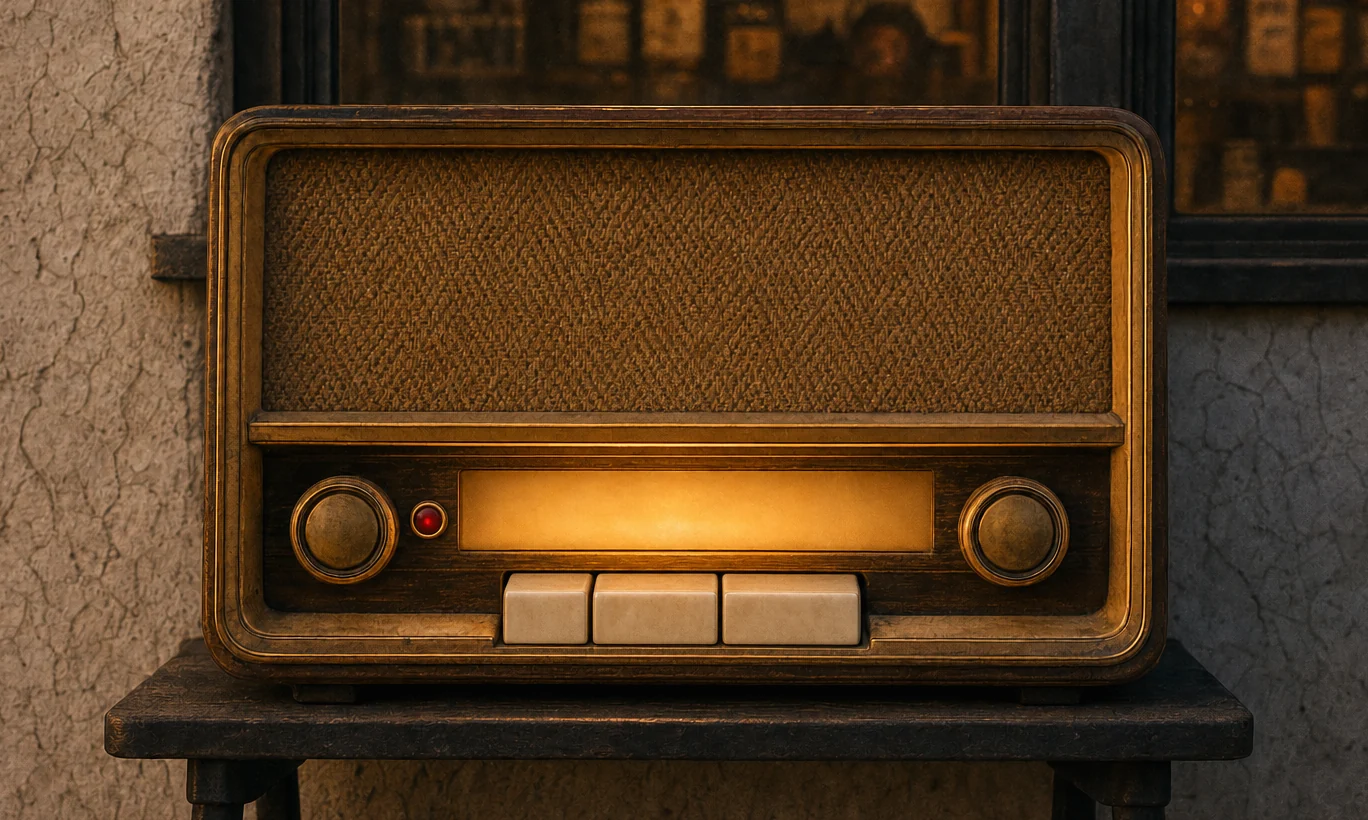
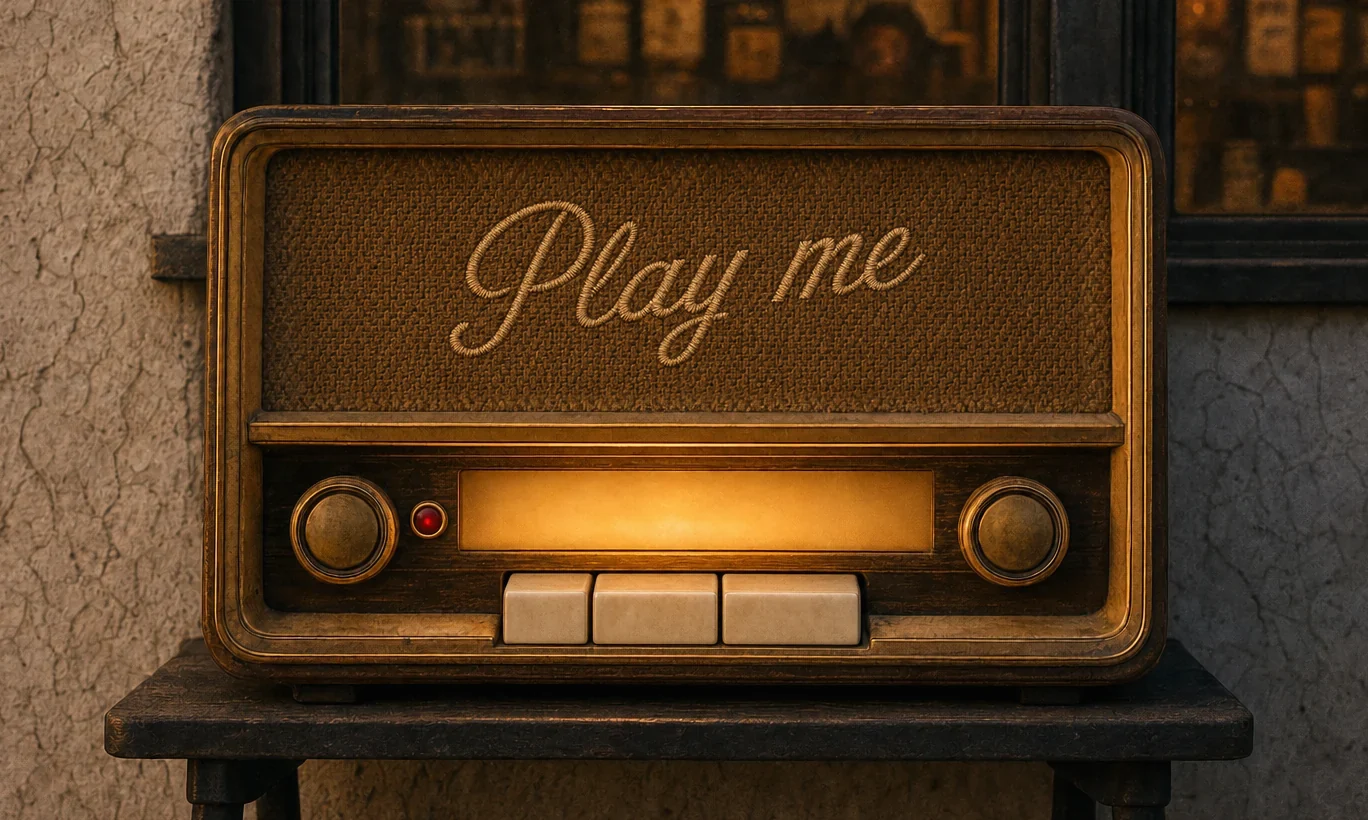
GAS 2 radio: "Play me" embroidered INTO the radio photo (Dan 2026-10-26)
The SVG stitches "look like CSS": the nameplate is now part of the plate asset.
One masked gpt-image-2 edit of the grille cloth (player/tools/gen_stitch.py, take 1
of 3: fine thin satin script), composed onto both plates through a diff mask, so
the cabinet, keys, knobs, dial and every radio.css coordinate stay pixel-identical.
.rp-badge = an invisible hit area over the stitched words (play / stop); the SVG
badge, its sheen and the ?stitch picker are gone.

Changed region(s): [[0.2149, 0.2134, 0.7982, 0.4878]]

diff --git a/tools/_gas2-scene/player/radio.js b/tools/_gas2-scene/player/radio.js
@@ -45,28 +45,10 @@
   const q = s => dock.querySelector(s), qa = s => [...dock.querySelectorAll(s)];
   const plate = q('.rp-plate'), ptr = q('.rp-ptr');
 
-  // the nameplate on the grille (Dan 2026-10-24: "like a brand name, like a Marshall ... pops out ... sewn in ... let me see
-  // more of the stitches"): "Play me" EMBROIDERED into the cloth, a second play key. One SVG, 1 user unit = 1u (plate px),
-  // the words' centre (320, 120) on the plate's (687, 270). Layers, bottom up: [the running stitch around the letters, a dashed
-  // stroke whose inner half the letters cover], the dark thread edge, the cream satin stitches (a pattern of threads at
-  // -20deg, each a groove + a sheen), a lit-top shade, and a sheen that sweeps the thread every 7 s until the first play
-  // (radio.css hides it on .played / reduced motion). STITCH = the outline thread; ?stitch shows Dan's picker
-  const STITCH = { none: null, cream: '#efe2c2', gold: '#e8c878' };
-  const badgeSvg = out => { const t = a => `<text x="320" y="165"${a}>Play me</text>`;
-    return `<svg viewBox="0 0 640 240" aria-hidden="true"><defs>
-      <pattern id="rpSat" width="40" height="8" patternUnits="userSpaceOnUse" patternTransform="rotate(-20)"><rect width="40" height="8" fill="#efe2c2"/>
-        <rect width="40" height="1.6" fill="rgba(96,64,28,.6)"/><rect y="3.6" width="40" height="2.4" fill="rgba(255,253,246,.75)"/></pattern>
-      <linearGradient id="rpShade" x1="0" y1="0" x2="0" y2="1"><stop offset="0" stop-color="#fff8e8" stop-opacity=".35"/>
-        <stop offset=".6" stop-color="#fff8e8" stop-opacity="0"/><stop offset="1" stop-color="#5a3c18" stop-opacity=".35"/></linearGradient>
-      <linearGradient id="rpSheen" gradientUnits="userSpaceOnUse" x1="0" y1="0" x2="640" y2="0" gradientTransform="translate(-700 0)">
-        <stop offset=".42" stop-color="#fff8e8" stop-opacity="0"/><stop offset=".5" stop-color="#fff8e8" stop-opacity=".85"/><stop offset=".58" stop-color="#fff8e8" stop-opacity="0"/>
-        <animateTransform attributeName="gradientTransform" type="translate" values="-700 0;700 0;700 0" keyTimes="0;.14;1" dur="7s" begin="1.4s" repeatCount="indefinite"/></linearGradient></defs>
-      <g font-family="Yellowtail, cursive" font-size="170" text-anchor="middle">
-        ${out ? t(` fill="none" stroke="${out}" stroke-width="18" stroke-dasharray="7 5"`) : ''}
-        ${t(` fill="#3b220d" stroke="#3b220d" stroke-width="${out ? 6 : 5}" stroke-linejoin="round"`)}
-        ${t(' fill="url(#rpSat)"')}${t(' fill="url(#rpShade)"')}${t(' class="rp-sheen" fill="url(#rpSheen)"')}</g></svg>`; };
+  // the nameplate on the grille: "Play me", EMBROIDERED in the plate photo itself (Dan 2026-10-26: the SVG stitches "look like
+  // CSS ... much more fine ... an asset ... glued together"; player/tools/gen_stitch.py). The words in the photo are a second
+  // play key: an invisible button over them (radio.css .rp-badge)
   const badge = q('.rp-badge');
-  badge.innerHTML = badgeSvg(STITCH.none);   // Dan 2026-10-24: S1, the bigger satin stitches, no outline (the outline was busy at scene size)
   const knobVol = q('.rp-knob.rp-vol'), knobTune = q('.rp-knob.rp-tun');
 
   // the knob strip: an angle -135..+135 picks one of 129 frames (12 x 11 grid)
@@ -127,7 +109,7 @@
     knobAt(knobVol, -135 + vol * 270); knobVol.setAttribute('aria-valuenow', Math.round(vol * 100)); };
 
   // ---------- actions ----------
-  const play = () => { ensure(); playing = true; plate.classList.add('played'); start(); render(); };   // played = the badge's glint rests
+  const play = () => { ensure(); playing = true; start(); render(); };
   const stop = () => {
     playing = false; token++;
     if (ac) { const t = ac.currentTime; bus.gain.cancelScheduledValues(t); bus.gain.setValueAtTime(bus.gain.value, t); bus.gain.linearRampToValueAtTime(0, t + .12);
@@ -222,15 +204,6 @@
       apply();
     });
     apply();
-  }
-  // ---------- ?stitch: Dan's picker for the nameplate's outline thread (a bench tool like ?rbench) ----------
-  if (new URLSearchParams(location.search).has('stitch')) {
-    const tp = document.createElement('div'); tp.className = 'rp-tp';
-    tp.innerHTML = '<h4>OUTLINE STITCH</h4><div class="row">' + Object.keys(STITCH).map(k => `<button data-s="${k}">${k}</button>`).join('') + '</div>';
-    document.body.appendChild(tp);
-    const pick = k => { badge.innerHTML = badgeSvg(STITCH[k]); tp.querySelectorAll('button').forEach(b => b.classList.toggle('on', b.dataset.s === k)); };
-    tp.addEventListener('click', e => { const b = e.target.closest('button'); if (b) pick(b.dataset.s); });
-    pick('none');
   }
   window.gas2Radio = { tune, setSide, play, stop, get state() { return { st, side, playing, vol, t: ac && ac.currentTime, gA: gA && gA.gain.value, gB: gB && gB.gain.value }; } };
 })();

diff --git a/tools/_gas2-scene/player/radio.css b/tools/_gas2-scene/player/radio.css
@@ -113,18 +113,12 @@
 .rp-jewel::after { content: ""; position: absolute; inset: -60%; border-radius: 50%; background: radial-gradient(closest-side, rgba(255, 70, 40, .55), rgba(255, 60, 30, .15) 55%, transparent); mix-blend-mode: screen; }
 .rp-plate.on .rp-jewel { opacity: 1; }
 
-/* the NAMEPLATE on the grille (Dan 2026-10-24): "Play me", embroidered into the cloth; the SVG and its layers are built in
-   radio.js (badgeSvg). Here: where it sits (the words' box, 640 x 240 u, centred on the cloth at plate (687, 270)), the tilt,
-   and the thread's shadow on the fabric (a tight halo + 1u down-left; the porch lamp is up-right). No hover / press move
-   (Dan: "not get closer when user hover"). Picked on 2026-10-24: "Play me" (first "Give it gas"), cream, tilted, sewn in,
-   bigger satin stitches; not taken: Play with it / Tune in, chrome / brass / honey / oxide enamel */
-.rp-badge { position: absolute; left: calc(367 * var(--u)); top: calc(150 * var(--u)); width: calc(640 * var(--u)); height: calc(240 * var(--u));
-  transform: rotate(-5deg); cursor: pointer; -webkit-tap-highlight-color: transparent;
-  filter: drop-shadow(0 0 calc(2.5 * var(--u)) rgba(20, 10, 4, .4)) drop-shadow(calc(-1 * var(--u)) calc(1.5 * var(--u)) calc(1 * var(--u)) rgba(14, 7, 3, .6)); }
-.rp-badge svg { display: block; width: 100%; height: 100%; overflow: visible; pointer-events: none; }
-.rp-plate.played .rp-sheen { display: none; }
-.rp-badge:focus-visible { outline: calc(3 * var(--u)) solid var(--honey, #f2be4a); outline-offset: calc(2 * var(--u)); border-radius: calc(12 * var(--u)); }
-@media (prefers-reduced-motion: reduce) { .rp-sheen { display: none; } }
+/* the NAMEPLATE: "Play me" is embroidered in the plate photo itself (both plates; player/tools/gen_stitch.py, Dan 2026-10-26:
+   "glued together ... feel a whole"). This is only its hit area over the stitched words (plate px), a second play key: no
+   look of its own, no hover move (Dan 2026-10-24: "not get closer when user hover") */
+.rp-badge { position: absolute; left: calc(440 * var(--u)); top: calc(190 * var(--u)); width: calc(495 * var(--u)); height: calc(185 * var(--u));
+  border-radius: calc(24 * var(--u)); cursor: pointer; -webkit-tap-highlight-color: transparent; }
+.rp-badge:focus-visible { outline: calc(3 * var(--u)) solid var(--honey, #f2be4a); outline-offset: calc(2 * var(--u)); }
 
 /* VOLUME / TUNING: cream paint in the wood under each knob, centred on the knob's axis. Letter-spacing pads the right
    side of the last letter, so the same space goes on the left (padding-left) or the word sits off-centre */
@@ -143,5 +137,4 @@
 .rp-tp .row { display: flex; gap: 6px; margin-top: 8px; }
 .rp-tp button { flex: 1; padding: 5px 0; border: 1px solid #5a4024; border-radius: 4px; color: #efe3c2; background: #2a1a0e; font: 600 11px Inter, sans-serif; }
 .rp-tp button:hover { border-color: #f2be4a; }
-.rp-tp button.on { border-color: #f2be4a; color: #f2be4a; }
 .rp-tp textarea { width: 100%; margin-top: 8px; background: #120a05; color: #efe3c2; border: 1px solid #5a4024; border-radius: 4px; font: 11px ui-monospace, Menlo, monospace; resize: none; }

diff --git a/tools/_gas2-scene/player/tools/gen_stitch.py b/tools/_gas2-scene/player/tools/gen_stitch.py
@@ -1,0 +1,124 @@
+"""GAS 2 radio: "Play me" EMBROIDERED into the plate's own grille cloth (Dan 2026-10-26: the SVG stitches "look like CSS ...
+make it much more fine ... create an asset ... the same box ... glued together"). A masked gpt-image EDIT of img/radio-lit.webp:
+the mask opens only the grille cloth, then compose() lays back ONLY the pixels the stitching changed (a diff mask, dilated +
+feathered), so the radio, keys, knobs, dial and every coordinate in radio.css stay pixel-identical. The off plate gets the
+same patch through the off/lit ratio of the old plates (the dial lamp's spill), so both states match.
+Usage: python player/tools/gen_stitch.py gen [n]       -> img/gen/stitch-<i>.png (gitignored) + img/gen/stitch-sheet.png
+       python player/tools/gen_stitch.py compose <i>   -> img/radio-lit.webp + img/radio-off.webp (from the git copies)"""
+import base64, json, os, subprocess, sys, urllib.request, uuid
+import numpy as np
+from PIL import Image, ImageFilter
+
+HERE = os.path.dirname(os.path.abspath(__file__))
+PLAYER = os.path.dirname(HERE)
+IMG = os.path.join(PLAYER, 'img')
+GEN = os.path.join(IMG, 'gen')
+W, H = 1368, 820                       # the plate, px (radio.css 1u = 1 px of it)
+S = 1536 / W                           # plate -> model px
+GRILLE = (290, 158, 1085, 400)         # the cloth inside its frame (262..1112 x 148..408) minus a margin, plate px
+PROMPT = ("Edit this exact photograph of a vintage 1950s tube radio. On its woven speaker grille cloth, embroider the "
+          "words \"Play me\" in a flowing retro script logo, like the Marshall amplifier script, centred on the cloth and "
+          "rising slightly to the right. The letters are sewn INTO the grille cloth at the factory with fine ivory cream "
+          "thread: delicate, tight, very fine satin stitching that follows each stroke, tiny thread sheen, the stitches "
+          "sink into the weave and the cloth texture shows right up to the letter edges, a barely visible soft shadow "
+          "under the thread. Subtle and elegant, one piece with the radio: not a patch, not a sticker, no outline, no "
+          "border, no badge. Same warm dusk light from the upper right, same colours and film grain. Change nothing else: "
+          "keep the wooden cabinet, brass trim, knobs, dial glass, keys and the wall exactly as they are.")
+
+
+def key():
+    """the website clone's local key file first: the shell's OPENAI_API_KEY on Dan's Mac is stale (401, handoff 2026-10-23)"""
+    top =subprocess.run(['git', '-C', HERE, 'rev-parse', '--path-format=absolute', '--git-common-dir'],
+                         capture_output=True, text=True).stdout.strip()
+    for root in (os.path.dirname(top), subprocess.run(['git', '-C', HERE, 'rev-parse', '--show-toplevel'], capture_output=True, text=True).stdout.strip()):
+        p = os.path.join(root, 'tools', '.openai_key.local')   # the website clone's local key file (gitignored)
+        if os.path.exists(p):
+            return open(p).read().strip()
+    return os.environ.get('OPENAI_API_KEY') or sys.exit('no OpenAI key')
+
+
+def plate(name):
+    """the plate as committed (git HEAD), so compose() never stacks a patch on a patched plate"""
+    rel = os.path.relpath(os.path.join(IMG, name + '.webp'), subprocess.run(['git', '-C', HERE, 'rev-parse', '--show-toplevel'],
+                          capture_output=True, text=True).stdout.strip())
+    tmp = os.path.join(GEN, '_head-' + name + '.webp')
+    os.makedirs(GEN, exist_ok=True)
+    open(tmp, 'wb').write(subprocess.run(['git', '-C', HERE, 'show', 'HEAD:' + rel], capture_output=True, check=True).stdout)
+    return np.asarray(Image.open(tmp).convert('RGB')).astype(np.float32)
+
+
+def gen(n):
+    lit = Image.fromarray(plate('radio-lit').astype(np.uint8))
+    h = round(H * S)                                   # 921: the plate scaled to 1536 wide, the rest = its bottom mirrored
+    big = lit.resize((1536, h), Image.LANCZOS)
+    canvas = Image.new('RGB', (1536, 1024))
+    canvas.paste(big, (0, 0))
+    canvas.paste(big.crop((0, h - (1024 - h), 1536, h)).transpose(Image.FLIP_TOP_BOTTOM), (0, h))
+    src = os.path.join(GEN, '_stitch-src.png'); msk = os.path.join(GEN, '_stitch-mask.png')
+    canvas.save(src)
+    m = Image.new('RGBA', (1536, 1024), (0, 0, 0, 255))
+    m.paste((0, 0, 0, 0), tuple(round(v * S) for v in GRILLE))   # transparent = repaint
+    m.save(msk)
+    b = uuid.uuid4().hex
+    parts = []
+    model = os.environ.get('GEN_MODEL', 'gpt-image-2')   # gpt-image-1 is gone on this key (2026-10-26: "does not exist")
+    fields = {'model': model, 'prompt': PROMPT, 'size': '1536x1024', 'quality': 'high', 'n': str(n)}
+    if model == 'gpt-image-1':
+        fields['input_fidelity'] = 'high'
+    for k, v in fields.items():
+        parts.append(f'--{b}\r\nContent-Disposition: form-data; name="{k}"\r\n\r\n{v}\r\n'.encode())
+    for name, path in (('image', src), ('mask', msk)):
+        parts += [f'--{b}\r\nContent-Disposition: form-data; name="{name}"; filename="{os.path.basename(path)}"\r\nContent-Type: image/png\r\n\r\n'.encode(),
+                  open(path, 'rb').read(), b'\r\n']
+    parts.append(f'--{b}--\r\n'.encode())
+    req = urllib.request.Request('https://api.openai.com/v1/images/edits', data=b''.join(parts),
+                                 headers={'Authorization': f'Bearer {key()}', 'Content-Type': f'multipart/form-data; boundary={b}'})
+    try:
+        with urllib.request.urlopen(req, timeout=600) as r:
+            d = json.load(r)
+    except urllib.error.HTTPError as e:
+        sys.exit(f'{e.code}: {e.read().decode()[:600]}')
+    outs = []
+    for i, it in enumerate(d['data'], 1):
+        p = os.path.join(GEN, f'stitch-{i}.png'); open(p, 'wb').write(base64.b64decode(it['b64_json'])); outs.append(p)
+        print(p)
+    print('usage:', json.dumps(d.get('usage', {})))
+    # a sheet of the grille crops, plate scale, for picking
+    x0, y0, x1, y1 = (round(v * S) for v in (230, 120, 1140, 430))
+    tiles = [Image.open(p).convert('RGB').crop((x0, y0, x1, y1)) for p in outs]
+    sheet = Image.new('RGB', (tiles[0].width, sum(t.height + 8 for t in tiles)), (20, 14, 10))
+    y = 0
+    for t in tiles:
+        sheet.paste(t, (0, y)); y += t.height + 8
+    sheet.save(os.path.join(GEN, 'stitch-sheet.png'))
+
+
+def compose(i):
+    lit, off = plate('radio-lit'), plate('radio-off')
+    out = Image.open(os.path.join(GEN, f'stitch-{i}.png')).convert('RGB')
+    new = np.asarray(out.crop((0, 0, 1536, round(H * S))).resize((W, H), Image.LANCZOS)).astype(np.float32)
+    # where the stitching is: the luminance difference, smoothed, over a threshold, grown to take the thread's shadow
+    dl = np.abs((new - lit) @ np.array([.3, .59, .11], np.float32))
+    dm = np.asarray(Image.fromarray(np.clip(dl * 4, 0, 255).astype(np.uint8)).filter(ImageFilter.GaussianBlur(1.5))).astype(np.float32)
+    m = Image.fromarray(((dm > 4 * 22) * 255).astype(np.uint8)).filter(ImageFilter.MaxFilter(9)).filter(ImageFilter.GaussianBlur(2.5))
+    box = Image.new('L', (W, H), 0); box.paste(255, GRILLE)
+    m = np.asarray(m).astype(np.float32) / 255 * np.asarray(box.filter(ImageFilter.GaussianBlur(6))).astype(np.float32) / 255
+    m = m[..., None]
+    lit2 = lit * (1 - m) + new * m
+    ratio = np.stack([np.asarray(Image.fromarray(np.clip((off[..., c] + 1) / (lit[..., c] + 1) * 128, 0, 255).astype(np.uint8))
+                                 .filter(ImageFilter.GaussianBlur(20))).astype(np.float32) / 128 for c in range(3)], -1)
+    off2 = off * (1 - m) + new * np.clip(ratio, .6, 1.2) * m
+    Image.fromarray((m[..., 0] * 255).astype(np.uint8)).save(os.path.join(GEN, f'_stitch-{i}-mask-used.png'))
+    for name, arr in (('radio-lit', lit2), ('radio-off', off2)):
+        im = Image.fromarray(np.clip(arr, 3, 252).astype(np.uint8))   # no pure #000 / #fff
+        im.save(os.path.join(IMG, name + '.webp'), quality=86, method=6)
+        print(name, im.size, os.path.getsize(os.path.join(IMG, name + '.webp')), 'bytes; patched px:', int((m[..., 0] > .5).sum()))
+
+
+if __name__ == '__main__':
+    if sys.argv[1:2] == ['gen']:
+        gen(int(sys.argv[2]) if len(sys.argv) > 2 else 3)
+    elif sys.argv[1:2] == ['compose']:
+        compose(int(sys.argv[2]))
+    else:
+        print(__doc__)

diff --git a/tasks/handoff.md b/tasks/handoff.md
@@ -11,7 +11,7 @@ Claim: CLOSED 2026-10-24. File: `tools/_gas2-scene/page-b.html` (`.chalk` gets `
   Note: moving the readings down in TUNE would put "Fill it up." behind the cut (at default it clears it).
 - Pulled first: Yoni's radio round 3 + `?rbench` placement (origin 4bfc117) are on this branch now.
 
-## 2026-10-24 — GAS 2 radio: the grille nameplate "Play me" (Claude Code `danavivi-7e`, Dan's Mac) — BRANCH `feat/gas2-page` PUSHED
+## 2026-10-24 / 26 — GAS 2 radio: the grille nameplate "Play me" (Claude Code `danavivi-7e`, Dan's Mac) — BRANCH `feat/gas2-page` PUSHED
 
 Claim: CLOSED 2026-10-24. Files: `tools/_gas2-scene/player/radio.css` (`.rp-badge` block), `player/radio.js` (badge markup,
 badge click = play / stop, `.played` on first play), `DESIGN.md` §3 (script accent: the nameplate exception),
@@ -31,6 +31,17 @@ badge click = play / stop, `.played` on first play), `DESIGN.md` §3 (script acc
   Default = bigger satin, NO outline. `page-b.html?stitch` = picker for a running-stitch outline (none / cream / gold, a dashed
   stroke under the letters): busy at scene size (stitches land in the letter joins and the a / e counters), so not default.
   Open: Dan's outline pick; then drop the ?stitch picker.
+- 2026-10-26 (Dan): the SVG stitches "look like CSS ... make it much more fine ... create an asset of the whole box including
+  the stitches ... glued together ... the same box ... not too much". Now IN THE PHOTO: `player/tools/gen_stitch.py gen 3` =
+  one masked gpt-image-2 edit of radio-lit.webp (mask = the grille cloth only; gpt-image-1 is gone on this key, and the shell's
+  OPENAI_API_KEY is stale, so the script reads the website clone's `tools/.openai_key.local`), 3 takes (~$0.75): 1 fine thin
+  script (PICKED), 2 + a swash underline, 3 bolder (`img/gen/stitch-*.png`, gitignored). `compose 1` lays back only the pixels
+  the stitching changed (diff mask, grown + feathered, inside the cloth) on the git copies of BOTH plates (off = through the old
+  off/lit ratio), so the cabinet, keys, knobs, dial and every radio.css coordinate are pixel-identical. The SVG badge, the sheen
+  and the ?stitch picker are gone; `.rp-badge` is now only an invisible hit area over the words (440..935 x 190..375 plate px).
+  Checked (headless 1141 + 1440): no errors / 404s, all audio 200; badge -> play ORIGINAL 1/0; GAS 2 key 0/1; ORIGINAL 1/0;
+  dial ELEC. -> st 2; tuning knob -> st 3; volume knob -> .62; play key stop / start; badge -> stop; hover moves nothing.
+  Not checked: Dan's Safari by eye, real ears.
 - Picked with the DESIGN.md "ONE script line per screen" rule flagged ("Fill it up." is Yellowtail too): recorded as
   "a nameplate ON a prop is not a line".
 - Checked: headless Chromium 1141x636 + 1440x900, no errors / 404s; badge click -> playing ORIGINAL (gains 1/0), glint stops;

diff --git a/DESIGN.md b/DESIGN.md
@@ -69,8 +69,9 @@ neon or glow without a lamp (a neon sign IS a lamp: the DRIFT panel's lit tube m
   (2026-10-19, picked over a marker and a typewriter look: "shorter and sexier").
   Second use: the GAS 2 page's "Fill it up." as a signature under the hero button (§7), tilted -6deg,
   offset right. Still ONE script line per screen. A nameplate ON a prop is not a line: the GAS 2 radio's grille
-  badge "Play me" (cream thread embroidered into the grille cloth, tilted -5deg, click = play, no hover move; Dan 2026-10-24, picked with this rule flagged,
-  "like a Marshall").
+  badge "Play me" (Dan 2026-10-24, picked with this rule flagged, "like a Marshall"): embroidered IN the radio photo
+  itself, fine satin stitch sunk into the weave, rising to the right, click = play, no hover move. Dan 2026-10-26: CSS / SVG
+  stitches "look like CSS"; texture on a photographed prop is baked into the photo asset, never drawn over it.
 - **A product name wears its plugin's own header lockup (Dan 2026-10-23).** The title on a product page is
   set in the face, colour split and rule of the plugin's own header, lifted from the plugin's render code,
   never the house Bebas: GAS 2 = the pump globe's GAS2 (Oswald 700, set tight, the 2 in oxide, an oxide
